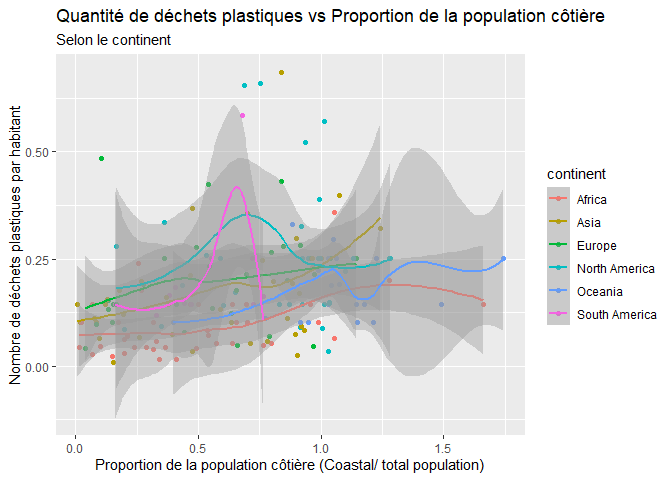
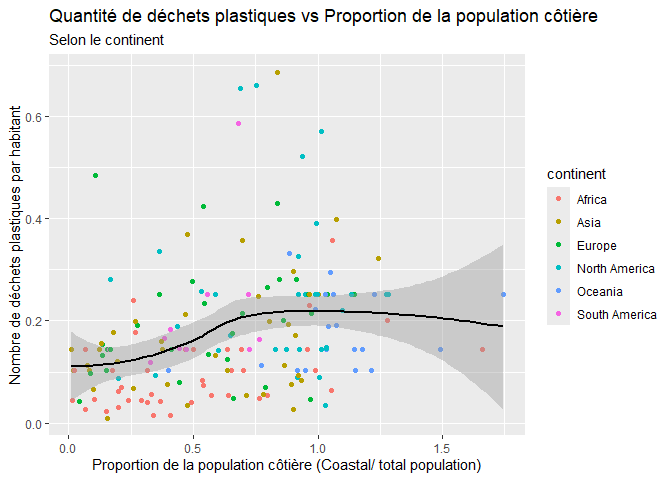
Projet final 2.0 2025-09-22 Juliane Champagne

diff --git a/lab-02-juliane1233109.md b/lab-02-juliane1233109.md
@@ -162,7 +162,7 @@ ggplot(plastic_waste, aes(x = coastal_pop/ total_pop,
                           y = plastic_waste_per_cap,
                           color = continent)) +
   geom_point()  +
-  geom_smooth() +
+  geom_smooth(aes(group = 1), method = "loess", color = "black", se = TRUE) +
   labs(
     x = "Proportion de la population côtière (Coastal/ total population)",
     y = "Nombre de déchets plastiques par habitant",
@@ -170,7 +170,7 @@ ggplot(plastic_waste, aes(x = coastal_pop/ total_pop,
     subtitle = "Selon le continent" )
 ```
 
-    ## `geom_smooth()` using method = 'loess' and formula = 'y ~ x'
+    ## `geom_smooth()` using formula = 'y ~ x'
 
     ## Warning: Removed 10 rows containing non-finite outside the scale range
     ## (`stat_smooth()`).
